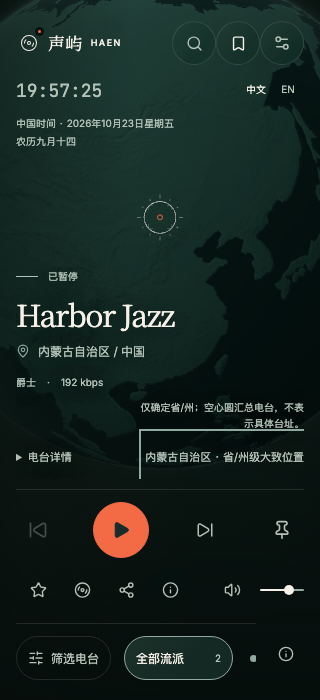
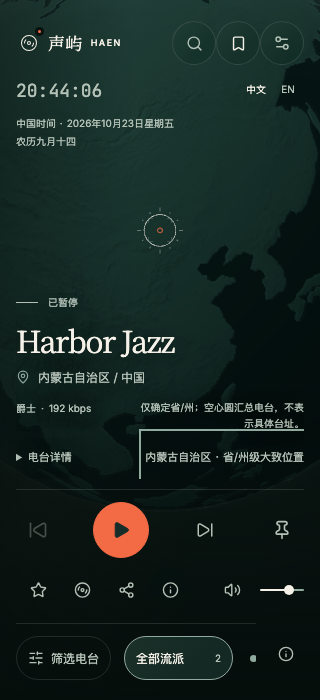
fix(web): 收紧手机定位说明与详情布局

diff --git a/apps/web/tests/e2e/mobile-globe-interaction.spec.ts b/apps/web/tests/e2e/mobile-globe-interaction.spec.ts
@@ -85,9 +85,18 @@ for (const region of [null, '内蒙古自治区']) {
         h = (await hint.boundingBox())!;
       expect(b.x).toBeGreaterThanOrEqual(a.x + a.width);
       expect(Math.abs(a.y + a.height / 2 - b.y - b.height / 2)).toBeLessThan(2);
+      const metadata = (await player.locator('[class*=metadata]').boundingBox())!;
+      expect(
+        a.y - metadata.y - metadata.height,
+        'Precision copy must not add a separate blank row on the left',
+      ).toBeLessThan(24);
       expect(h.x).toBeGreaterThan(a.x);
       expect(h.y + h.height).toBeLessThanOrEqual(b.y + 1);
       await expect(panel.getByRole('button', { name: label, exact: true })).toHaveCount(0);
+      await player.locator('summary').click();
+      await expect(player.getByText('地图位置', { exact: true })).toBeVisible();
+      expect(await player.evaluate((el) => el.scrollWidth <= el.clientWidth)).toBe(true);
+      await player.locator('summary').click();
       await location.click();
       await expect(page.getByRole('dialog', { name: label, exact: true })).toBeVisible();
       await page.keyboard.press('Escape');
@@ -97,6 +106,11 @@ for (const region of [null, '内蒙古自治区']) {
         scale: 'css',
       });
     }
+    await page.getByRole('button', { name: 'EN', exact: true }).click();
+    const summaryBox = (await player.locator('summary').boundingBox())!;
+    const metadataBox = (await player.locator('[class*=metadata]').boundingBox())!;
+    expect(summaryBox.y - metadataBox.y - metadataBox.height).toBeLessThan(24);
+    await page.screenshot({ path: info.outputPath('compact-en.png'), scale: 'css' });
   });
 }
 
@@ -195,5 +209,40 @@ test('audits phone and desktop controls after map hint relocation', async ({ pag
     expect(
       report.violations.map(({ id, nodes }) => ({ id, targets: nodes.map((n) => n.target) })),
     ).toEqual([]);
+  }
+});
+
+test('keeps long station titles and expanded details usable with compact metadata', async ({
+  page,
+}, info) => {
+  await install(page);
+  await page.addInitScript(() => localStorage.setItem('haen:language:v1', 'zh'));
+  const name = '广西文艺广播 FM950广西音乐台';
+  await page.route('**/api/v1/stations/' + first.id, (route) =>
+    route.fulfill({ json: { ...first, name } }),
+  );
+  await page.goto('/?station=' + first.id);
+  await page.emulateMedia({ reducedMotion: 'reduce' });
+  const player = page.getByRole('contentinfo');
+  for (const [width, height] of [
+    [390, 844],
+    [320, 700],
+    [375, 667],
+    [768, 1024],
+    [1440, 900],
+    [844, 390],
+  ]) {
+    await page.setViewportSize({ width: width!, height: height! });
+    await expect(player.getByRole('heading', { level: 1 })).toHaveText(name);
+    await expect(player.getByRole('button', { name: '播放', exact: true })).toBeInViewport();
+    const summary = player.locator('summary');
+    await summary.click();
+    await expect(player.getByText('地图位置', { exact: true })).toBeVisible();
+    expect(await player.evaluate((el) => el.scrollWidth <= el.clientWidth)).toBe(true);
+    await summary.click();
+    expect(await page.evaluate(() => document.documentElement.scrollWidth <= innerWidth)).toBe(
+      true,
+    );
+    await page.screenshot({ path: info.outputPath(`compact-long-${width}.png`), scale: 'css' });
   }
 });

diff --git a/apps/web/src/app/App.tsx b/apps/web/src/app/App.tsx
@@ -938,20 +938,10 @@ export function App() {
           </h1>
           {shared.invalid && <p className={styles.note}>{t('invalidShare')}</p>}
           {state.station ? (
-            <>
-              <p className={styles.location}>
-                <MapPin size={14} aria-hidden="true" />
-                {location(state.station)}
-              </p>
-              <p className={styles.metadata}>
-                {t('genre.' + state.station.genre)}
-                <span>
-                  {state.station.bitrate
-                    ? String(state.station.bitrate) + ' kbps'
-                    : t('unknownBitrate')}
-                </span>
-              </p>
-            </>
+            <p className={styles.location}>
+              <MapPin size={14} aria-hidden="true" />
+              {location(state.station)}
+            </p>
           ) : restoring ? (
             <div aria-hidden="true">
               <p className={styles.location}>
@@ -980,6 +970,14 @@ export function App() {
           )}
           {state.station && (
             <div className={styles.stationDetailsRow}>
+              <p className={styles.metadata}>
+                {t('genre.' + state.station.genre)}
+                <span>
+                  {state.station.bitrate
+                    ? String(state.station.bitrate) + ' kbps'
+                    : t('unknownBitrate')}
+                </span>
+              </p>
               <details className={styles.stationDetails}>
                 <summary>{t('stationDetails')}</summary>
                 <StationDial

diff --git a/apps/web/src/app/App.module.css b/apps/web/src/app/App.module.css
@@ -1858,13 +1858,23 @@
 }
 @media (width < 768px) {
   .player[data-has-station='true'][data-immersive='false']:has(.mobilePlace:not(:empty)) {
-    max-height: min(424px, calc(44dvh + 64px));
+    max-height: min(384px, calc(44dvh + 24px));
   }
   .stationDetailsRow:has(.mobilePlace:not(:empty)) {
     display: grid;
     grid-template-columns: minmax(0, 2fr) minmax(0, 3fr);
     align-items: start;
-    margin-top: 8px;
+    row-gap: 4px;
+    margin-top: 12px;
+  }
+  .stationDetailsRow:has(.mobilePlace:not(:empty)) .metadata {
+    grid-area: 1 / 1;
+    flex-wrap: wrap;
+    gap: 4px;
+    margin: 0;
+  }
+  .stationDetailsRow:has(.mobilePlace:not(:empty)) .metadata span::before {
+    margin-right: 4px;
   }
   .stationDetailsRow:has(.mobilePlace:not(:empty)) .stationDetails {
     grid-area: 2 / 1 / 3 / -1;

diff --git a/apps/web/src/graphics/exploration.module.css b/apps/web/src/graphics/exploration.module.css
@@ -481,7 +481,7 @@
   .mobilePlaceHint {
     grid-area: 1 / 2;
     min-width: 0;
-    margin-bottom: 4px;
+    margin: 0;
     color: var(--color-text-muted);
     font: 10px / 1.6 var(--font-body);
     text-align: right;

diff --git a/docs/frontend/design/night-voyage.md b/docs/frontend/design/night-voyage.md
@@ -60,7 +60,7 @@
 
 - 390×844、320×700、844×390 为必需检查视口；页面随动态视口变化并考虑安全区。
 - 品牌和主要工具共用第一行；搜索打开后从第一行工具下方显示完整搜索浮层。
-- 地球使用暗色连续陆地与柔光分布，所有缩放级别仅显示悬停或选中目标的定位符号，手机与桌面保持同一规则。画布以底部控制区上方的舞台构图，但绘制覆盖完整视口，放大时球面连续延伸至顶部和透明收听区后方；当前电台名称使用 30–36px 衬线字，较长名称降为 28px，采用均衡换行。构图舞台高度结合实际播放器高度调整，在小屏保持地球可见。中国时间、公历与农历置于顶部左侧，语言置于顶部右侧；打开搜索时暂时隐藏同一区域的时钟与语言，避免重叠；输入焦点沿浮层内的输入区域显示，保留一个显式清除按钮。手机精度说明置于电台详情右侧、位置入口上方，目录统计收进地图信息；手机地图信息按钮紧邻分享右侧；国家、省/州及同坐标分组入口统一移到电台详情同行右侧，沿用详情的 11px 字号，不带边框和底色。桌面保持原位。地球舞台、浮动台名、时钟与收听展示文字禁止文字选择和 iOS 长按菜单，输入框与展开的电台详情保留原有操作。手机不显示鼠标悬停的地图文字预览，使用定位标记及收听详情。
+- 地球使用暗色连续陆地与柔光分布，所有缩放级别仅显示悬停或选中目标的定位符号，手机与桌面保持同一规则。画布以底部控制区上方的舞台构图，但绘制覆盖完整视口，放大时球面连续延伸至顶部和透明收听区后方；当前电台名称使用 30–36px 衬线字，较长名称降为 28px，采用均衡换行。构图舞台高度结合实际播放器高度调整，在小屏保持地球可见。中国时间、公历与农历置于顶部左侧，语言置于顶部右侧；打开搜索时暂时隐藏同一区域的时钟与语言，避免重叠；输入焦点沿浮层内的输入区域显示，保留一个显式清除按钮。手机流派/码率与右侧精度说明共用一行，下一行的电台详情与位置入口对齐，避免精度说明在左侧形成空白行；目录统计收进地图信息；手机地图信息按钮紧邻分享右侧；国家、省/州及同坐标分组入口统一移到电台详情同行右侧，沿用详情的 11px 字号，不带边框和底色。桌面保持原位。地球舞台、浮动台名、时钟与收听展示文字禁止文字选择和 iOS 长按菜单，输入框与展开的电台详情保留原有操作。手机不显示鼠标悬停的地图文字预览，使用定位标记及收听详情。
 - 保留直接切台、收藏、固定、分享、沉浸和音量操作，以及底部横向流派条。可用高度至少 600px 的手机界面将播放/切台/固定与收藏/沉浸/分享/音量分成两行，操作目标至少 44×44px；低高度横屏使用紧凑布局。播放器信息可滚动，播放操作不随长名称移出屏幕。
 - 手机搜索单独使用 24px 圆角与两侧至少 12px 安全边距；标题和 44px 关闭按钮共用首行，下方 50px 高圆角搜索框独占整行。搜索列表站名 16px，地点与类别置于次行，滚动追加及底部播放操作保持可用。
 - 手机浮层使用可用宽度与安全高度，内容独立滚动，底部播放操作仍然可用。设置、收藏与搜索按 `--panel-controls-clearance` 为操作区预留高度，睡眠倒计时显示时额外留出一行。
